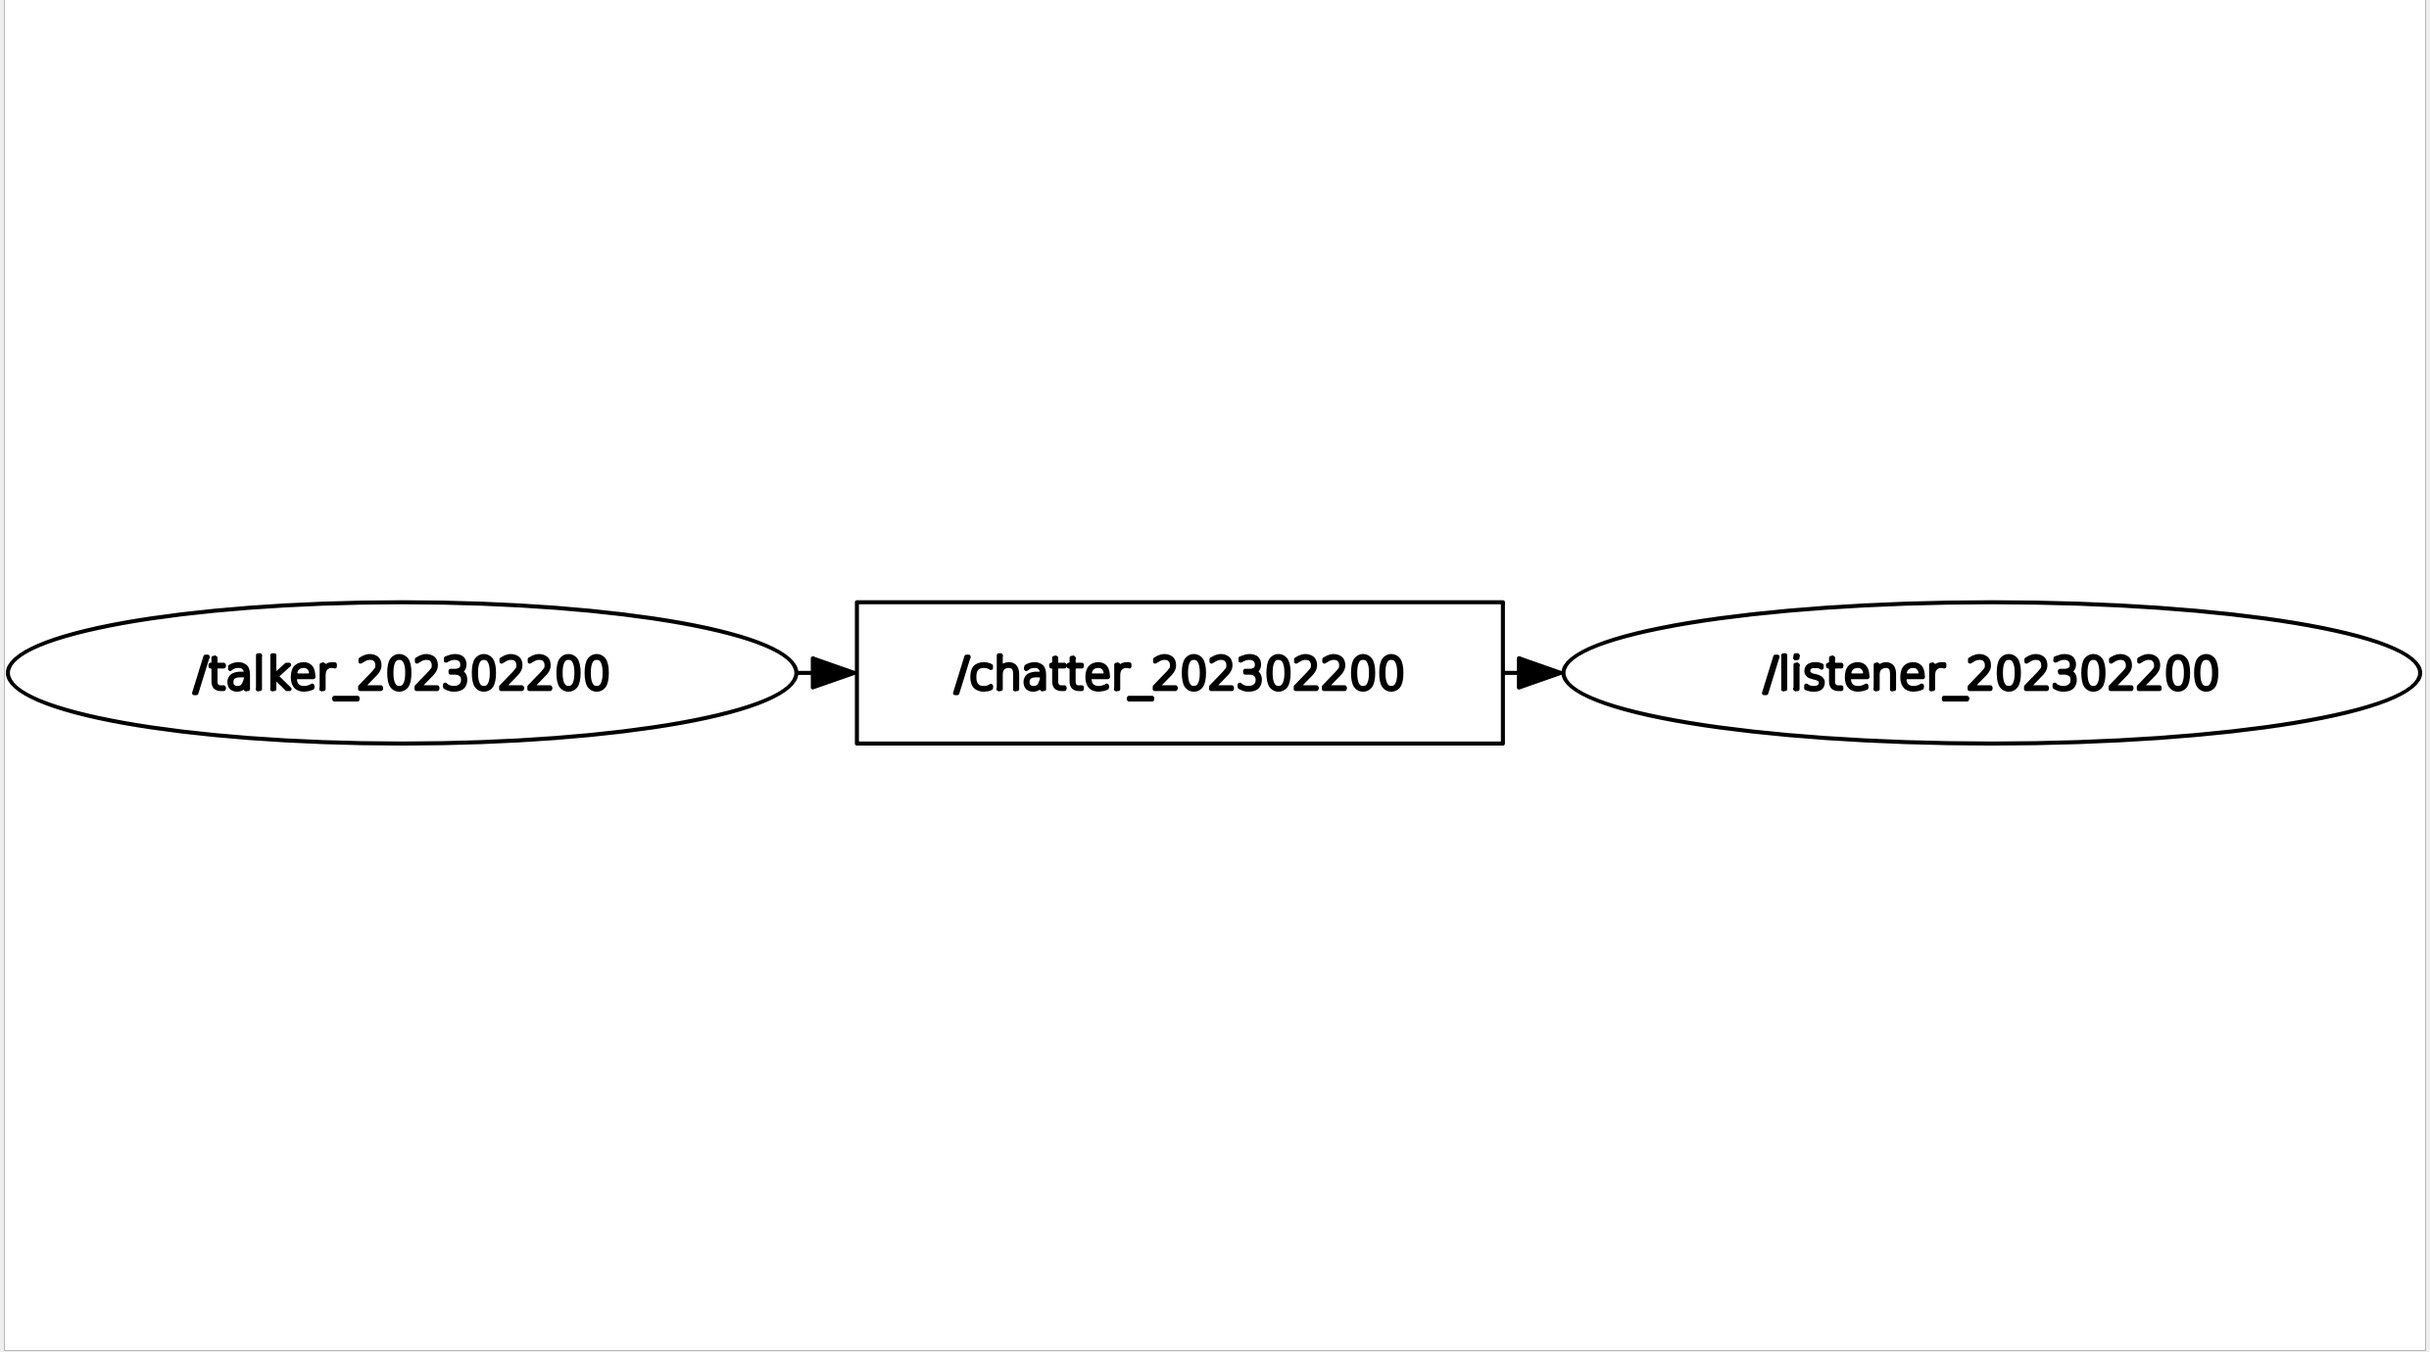
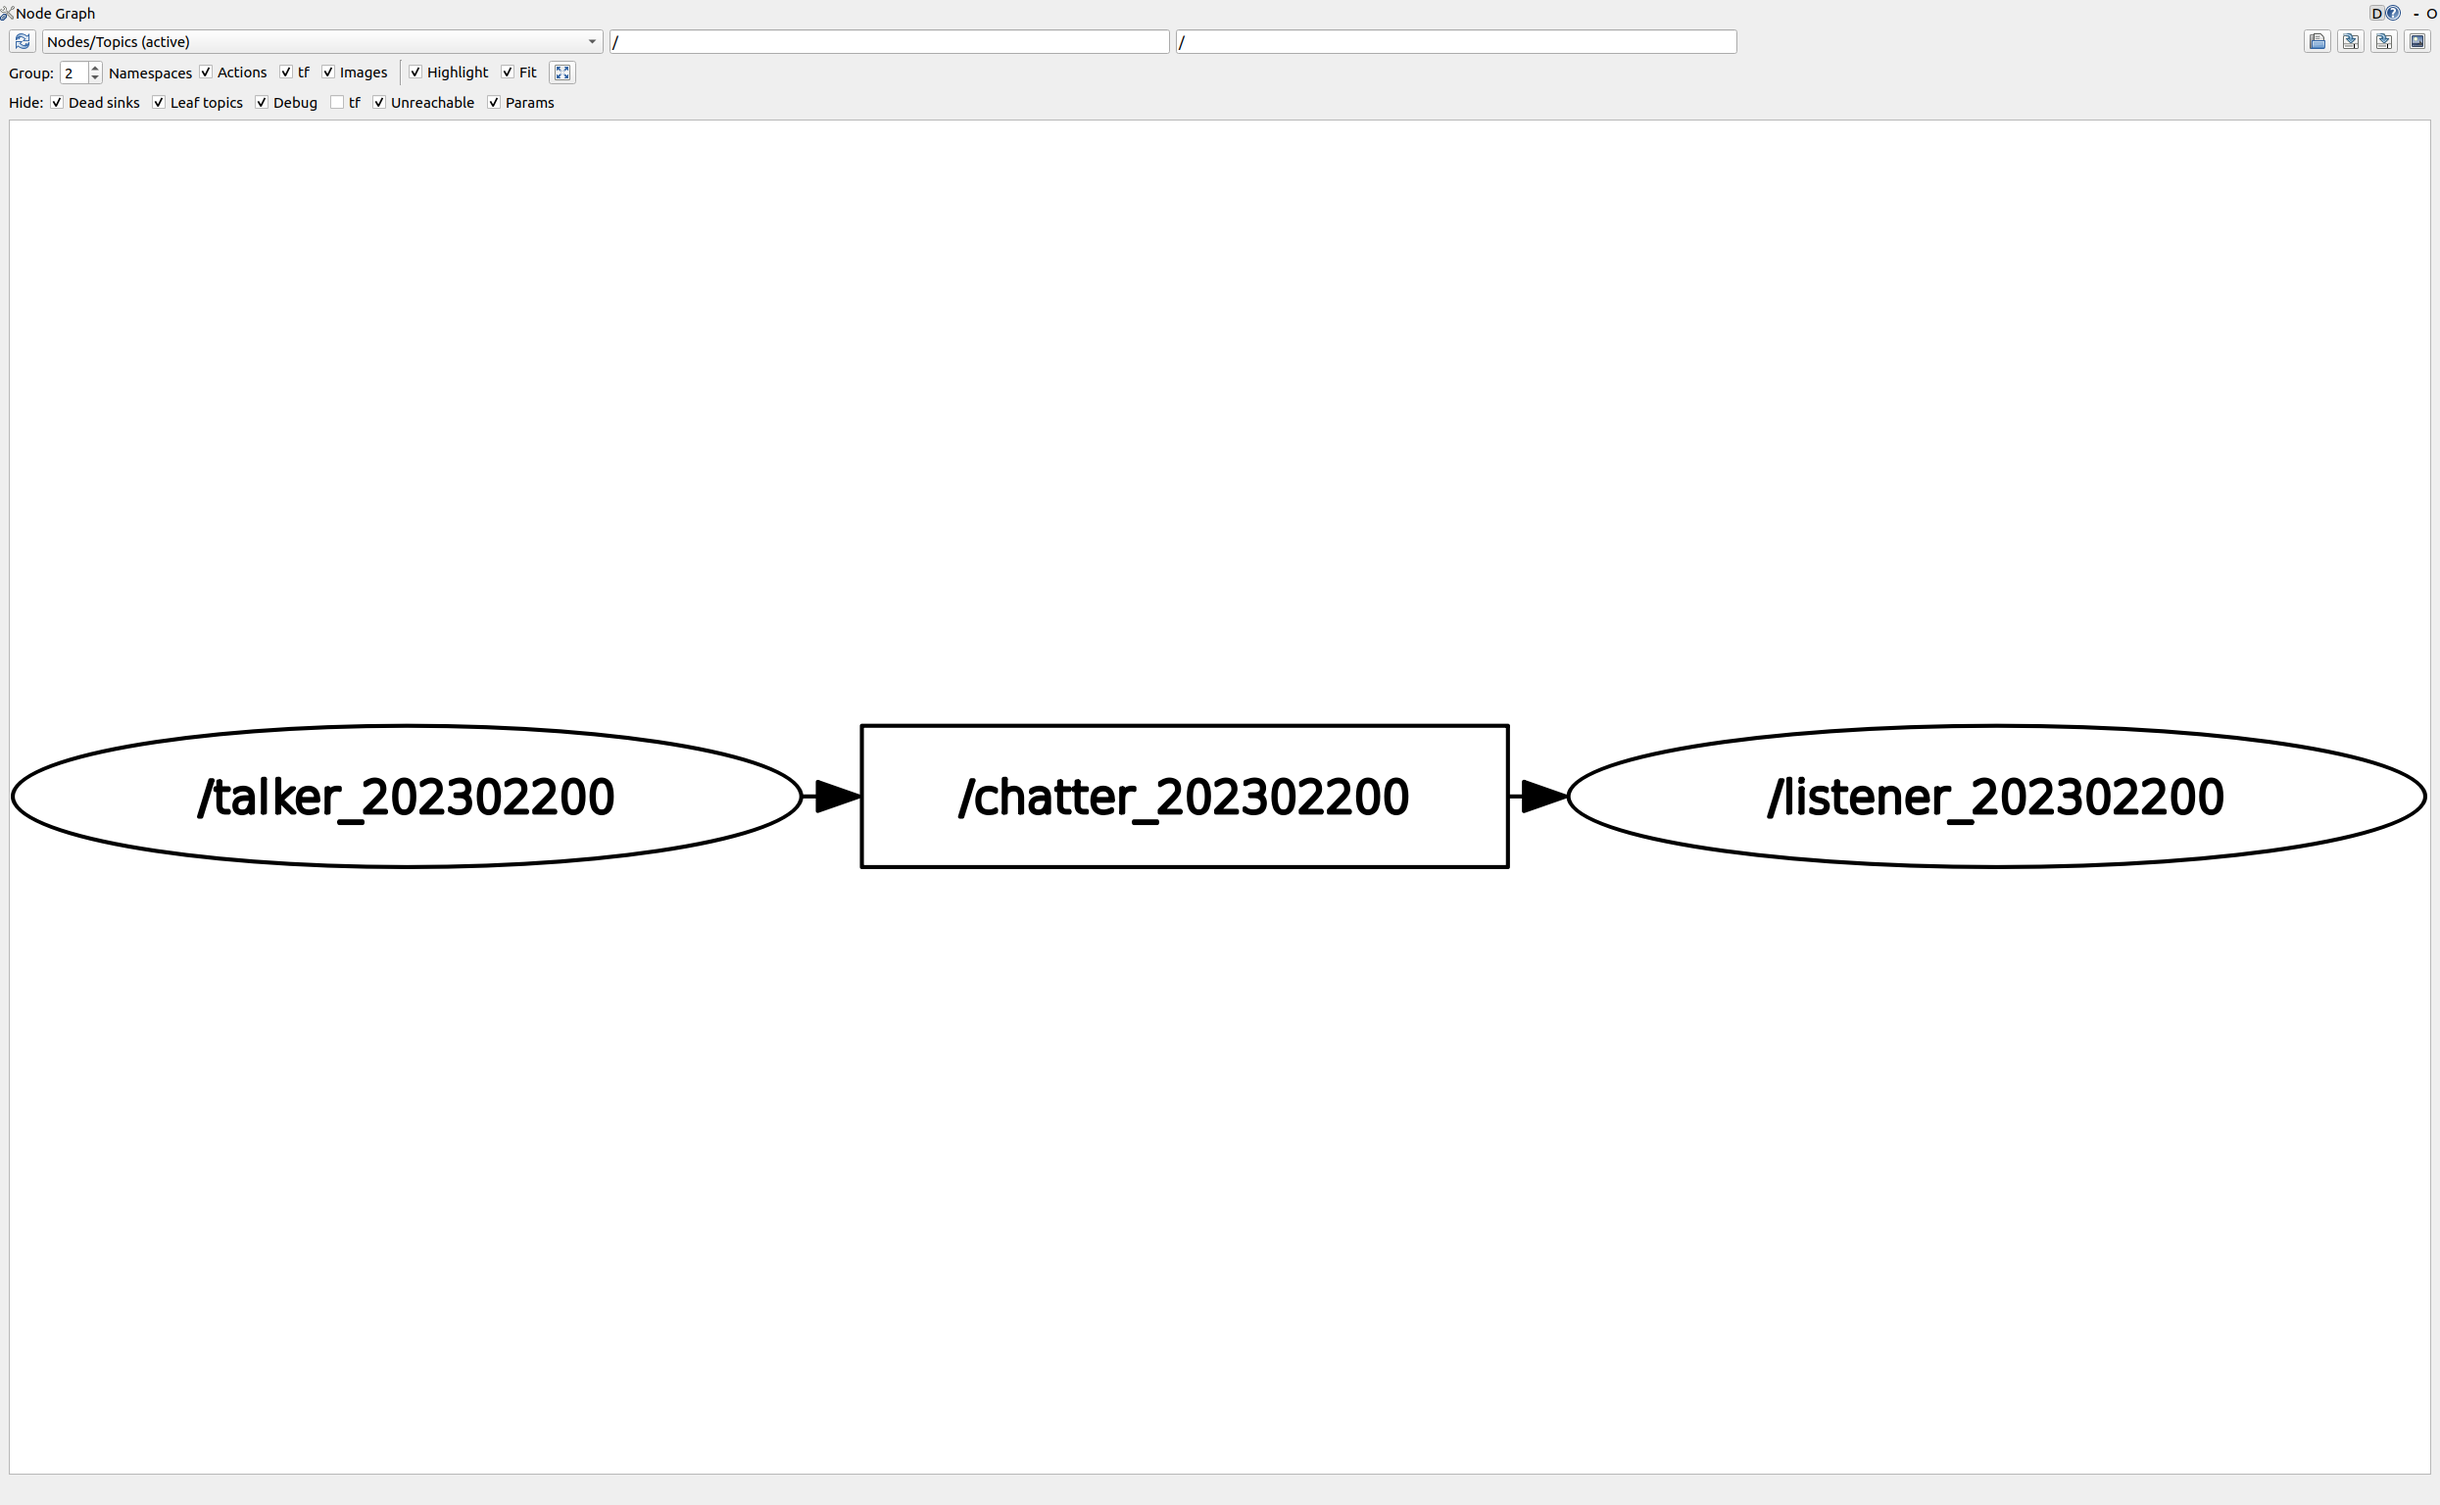
2·3주차 실행 결과·수업 안내 갱신

Changed region(s): [[0.0, 0.0623, 1.0, 1.0], [0.0, 0.0, 0.2484, 0.0935], [0.9315, 0.0, 1.0, 0.0312]]

diff --git a/README.md b/README.md
@@ -45,3 +45,72 @@ Linux와 ROS 2 기초부터 워크스페이스 및 패키지 구성, 노드 간 
 | --- | --- |
 | [week02](week02/) | ROS 2 설치 및 talker/listener 통신 확인, 실습 보고서 |
 | [week03](week03/) | Publisher/Subscriber 패키지, 학번을 적용한 노드 실행, rqt_graph 결과 |
+
+## 실습 장비 — Waffle + OpenMANIPULATOR-X
+
+강의 소개 슬라이드에 안내된 장비 구성입니다.
+
+| 장비 | 구성 및 역할 |
+| --- | --- |
+| TurtleBot3 Waffle | 자율주행 베이스. 360° LiDAR로 거리 측정 및 SLAM, 카메라로 비전·ArUco 마커 인식 |
+| IMU·휠 엔코더 | 자세와 주행거리 추정 |
+| OpenCR 보드 | 모터·센서 저수준 제어 |
+| SBC(라즈베리파이) | ROS 2 실행 |
+| OpenMANIPULATOR-X | 4자유도 관절과 그리퍼, DYNAMIXEL 스마트 모터 5개로 구성된 로봇팔. MoveIt2로 모션 계획 |
+
+Waffle 위에 로봇팔을 장착한 **모바일 매니퓰레이터**로 실습합니다.
+팀별 실물 키트를 배정받고 Gazebo 시뮬레이션과 실물 연습을 병행합니다.
+키트 배정 시 서약서를 작성하며, 파손·분실은 팀 공동 책임입니다. LiPo 배터리 취급에 주의합니다.
+
+## 미션과 기말 프로젝트
+
+| 미션 | 주차 | 비중 | 수행 내용 |
+| --- | --- | --- | --- |
+| #1 Turtlesim 순찰 | 5주차 | 5% | 사각 경로 반복 주행, 시작·정지 서비스, launch로 한 번에 실행 |
+| #2 장비 Bringup | 6주차 | 5% | 팀 키트 구동, 텔레옵으로 지정 경로 주행, 로봇팔 지정 자세 |
+| #3 SLAM·Nav2 | 12주차 | 5% | 강의실 지도 작성, 지정한 3지점 연속 자율주행 |
+| #4 Pick & Place | 13주차 | 5% | 지점 A의 물체를 집어 지점 B에 놓기 |
+
+### Final Project — 30%
+
+미션 #3의 자율주행과 #4의 물체 조작에 인식을 결합해 하나의 시스템으로 구성합니다.
+
+```text
+시작 명령 → Nav2 주행 → ArUco 인식 → Pick → 배달 주행 → Place
+```
+
+- **평가:** 현장 시연, 보고서 및 시연 영상 제출. 별도 PPT 발표 없이 단계별 부분점수 부여
+- **14주차:** 아레나 오픈, 지도 제작 및 연습
+- **15주차:** 데모 데이
+- **최대 +5 가산점:** YOLO pick, LLM 명령, 다중 배달, 동적 장애물
+- **기반:** ROBOTIS 공식 `turtlebot3_home_service_challenge`의 Humble 버전 개선판. 공식 시뮬레이션 월드로 사전 연습
+- **상세 규정:** 강의 소개 자료 기준 중간고사 이후 배포 예정
+
+## 참고자료
+
+강의 소개 슬라이드에 제시된 링크를 정리했습니다.
+
+### 공식 문서와 실습 키트
+
+- [ROS 2 Humble](https://docs.ros.org/en/humble/)
+- [Nav2](https://docs.nav2.org/)
+- [MoveIt 2 Humble](https://moveit.picknik.ai/humble/index.html)
+- [Cartographer ROS](https://google-cartographer-ros.readthedocs.io/)
+- [ROBOTIS e-Manual — TurtleBot3 Manipulation](https://emanual.robotis.com/docs/en/platform/turtlebot3/manipulation/)
+- [ROBOTIS TurtleBot3 Manipulation 소스](https://github.com/ROBOTIS-GIT/turtlebot3_manipulation)
+
+### 강의와 교재
+
+- [표윤석 ROS 2](https://cafe.naver.com/openrt/24070)
+- [김수영 ROS 2 — Roadbalance](https://m-hakaton.tistory.com/tag/ROS2_Roadbalance)
+- [표윤석 ROS 1 세미나 자료](https://github.com/robotpilot/ros-seminar)
+- [표윤석 ROS 1 영상](https://www.youtube.com/playlist?list=PLRG6WP3c31_VIFtAxSke2NG_DumVZPgw)
+
+### 추가 참고자료
+
+- [Robotics Back-End](https://www.youtube.com/@RoboticsBackEnd)
+- [ROS Wiki — URDF Tutorials](https://wiki.ros.org/urdf/Tutorials)
+- [ROS Wiki — robot_state_publisher Tutorials](https://wiki.ros.org/robot_state_publisher/Tutorials)
+- [Ultralytics YOLO](https://docs.ultralytics.com)
+- [OpenCV ArUco 마커 검출](https://docs.opencv.org/4.x/d5/dae/tutorial_aruco_detection.html)
+- [Ollama](https://ollama.com)

diff --git a/week03/README.md b/week03/README.md
@@ -49,12 +49,25 @@ bash "$HOME/intelligent_robot_practice/week03/run_pubsub.sh" graph
 export IRE_WS="$HOME/ire_ws"
 ```
 
-홈 디렉터리 이전 전에 생성한 `build`와 `install`에는 이전 절대 경로가
-남을 수 있다. 이전 빌드 결과를 사용 중이라면 해당 디렉터리를 별도로 보관하거나
-정리한 뒤 `$HOME/ire_ws`에서 다시 빌드한다.
+2026-09-15 홈 경로 변경에 맞춰 기존 빌드 결과를 백업하고 현재
+`$HOME/ire_ws`에서 재빌드했다. `build`와 `install`에 이전 홈 경로가
+남아 있지 않고, 끊어진 심볼릭 링크가 없는 것을 확인했다.
 
 ## rqt_graph 결과
 
 아래 캡처에서 talker와 listener가 `/chatter_202302200` 토픽을 통해 연결되어 있음을 확인할 수 있다.
 
 ![학번 202302200의 publisher와 subscriber 연결](screenshots/rqt_graph_202302200.png)
+
+## 재실행 결과 — 2026-09-15
+
+현재 홈 경로 `$HOME`에서 새 GNOME 터미널 두 개를 열어
+각각 talker와 listener를 실행했습니다. 이번 검증에서는 두 터미널에
+`ROS_DOMAIN_ID=79`, `ROS_LOCALHOST_ONLY=1`을 적용했습니다.
+45초 실행 후 SIGINT로 종료했으며, 동일한 메시지 번호 **44개**의 발행·수신을 확인했습니다.
+
+| Talker | Listener |
+| --- | --- |
+| ![발행 결과](screenshots/talker_202302200.png) | ![수신 결과](screenshots/listener_202302200.png) |
+
+원본 실행 로그: [talker](results/talker.log), [listener](results/listener.log)

diff --git a/week02/README.md b/week02/README.md
@@ -15,7 +15,7 @@ listener가 구독하여 `I heard` 로그를 출력하는지 확인한다.
 
 ## 파일 구성
 
-- `실습보고서.odt`: 기존 talker의 Publishing과 listener의 I heard 화면 캡처
+- `실습보고서.odt`: 2026-09-15 새 터미널에서 실행한 talker와 listener 화면 캡처
 - `run_demo.sh`: ROS 2 기본 데모 실행 스크립트
 - `talker.py`: 1초마다 `Hello World: N`을 발행하는 직접 구현 코드
 - `listener.py`: 수신한 메시지를 출력하는 직접 구현 코드
@@ -80,3 +80,16 @@ python3 "$HOME/intelligent_robot_practice/week02/listener.py"
 listener를 늦게 실행하면 앞선 메시지는 수신하지 못하므로 번호가 1부터 시작하지
 않을 수 있다. 이후 같은 번호의 발행·수신 로그가 나타나면 정상이다.
 각 터미널에서 Ctrl+C를 누르면 종료된다.
+
+## 재실행 결과 — 2026-09-15
+
+현재 홈 경로 `$HOME`에서 새 GNOME 터미널 두 개를 열어
+각각 talker와 listener를 실행했습니다. 이번 검증에서는 두 터미널에
+`ROS_DOMAIN_ID=79`, `ROS_LOCALHOST_ONLY=1`을 적용했습니다.
+45초 실행 후 SIGINT로 종료했으며, 동일한 메시지 번호 **44개**의 발행·수신을 확인했습니다.
+
+| Talker | Listener |
+| --- | --- |
+| ![발행 결과](screenshots/talker_202302200.png) | ![수신 결과](screenshots/listener_202302200.png) |
+
+원본 실행 로그: [talker](results/talker.log), [listener](results/listener.log)
